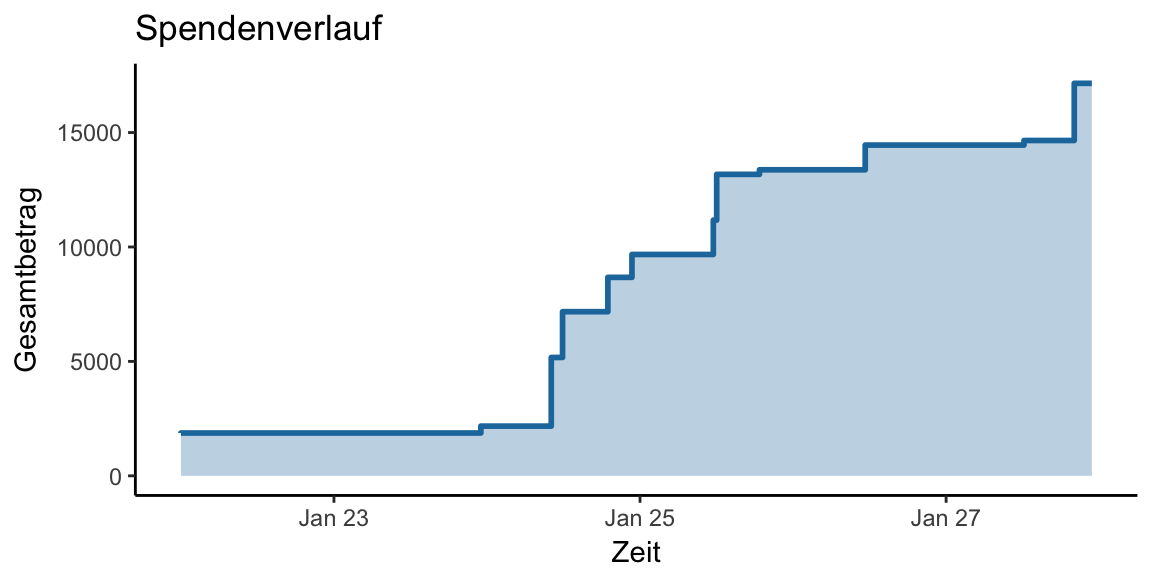
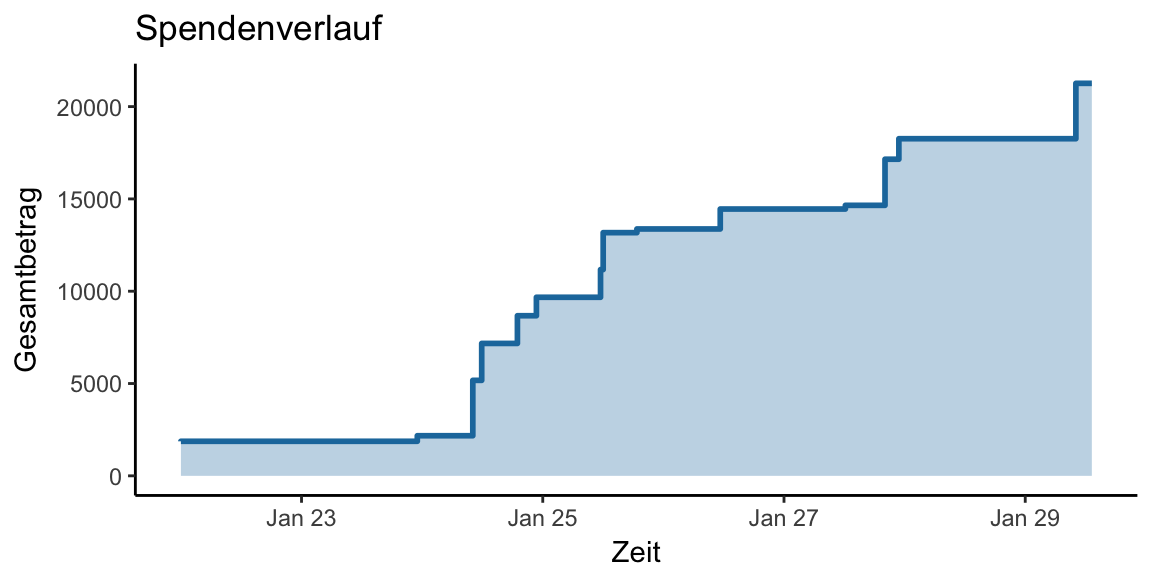
hahah

diff --git a/Results.html b/Results.html
@@ -217,7 +217,7 @@ $(document).ready(function () {
 
 
 <p align="right" class="text-primary">
-Stand: 28.01.2018 22:31
+Stand: 29.01.2018 14:15
 </p>
 <p> </p>
 <p> </p>
@@ -251,7 +251,7 @@ Spende
 Spende bei Zuschlag
 </td>
 <td style="text-align:right;">
-14978
+19089
 </td>
 </tr>
 <tr>
@@ -267,7 +267,7 @@ Für unser eigenes Zentrum
 Gesamt
 </td>
 <td style="text-align:right;font-weight: bold;color: white;background-color: #E17E08;">
-17150
+21261
 </td>
 </tr>
 </tbody>
@@ -277,7 +277,7 @@ Gesamt
 <div class="card text-white bg-primary mb-3" style="max-width: 80rem;">
   <div class="card-body" align="center">
     &nbsp;
-    <p class="card-text" align="center"> <b>11</b> Leute haben bisher <b>17150 €</b> gespendet oder zugesagt!</p>
+    <p class="card-text" align="center"> <b>13</b> Leute haben bisher <b>21261 €</b> gespendet oder zugesagt!</p>
     &nbsp; 
   </div>
 </div>
